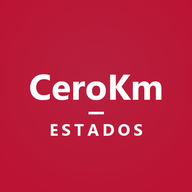
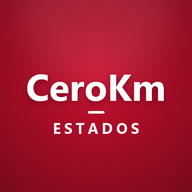
Estado: icono CeroKm con degradado (version 5)

diff --git a/estado/index.html b/estado/index.html
@@ -4,9 +4,9 @@
 <meta charset="utf-8">
 <meta name="viewport" content="width=device-width, initial-scale=1, maximum-scale=1, viewport-fit=cover">
 <title>CeroKm Estados</title>
-<link rel="apple-touch-icon" href="icono-180.png?v=5">
-<link rel="icon" type="image/png" href="favicon.png?v=5">
-<link rel="manifest" href="manifest.webmanifest?v=5">
+<link rel="apple-touch-icon" href="icono-180.png?v=6">
+<link rel="icon" type="image/png" href="favicon.png?v=6">
+<link rel="manifest" href="manifest.webmanifest?v=6">
 <meta name="apple-mobile-web-app-capable" content="yes">
 <meta name="mobile-web-app-capable" content="yes">
 <meta name="apple-mobile-web-app-title" content="CeroKm Estados">
@@ -42,7 +42,7 @@
 <script>
 /* Link para compartir (solo ver). Muestra la pantalla de la app sin pasar por la página de Google,
    así no aparece el cartel "Un usuario de Google Apps Script creó esta aplicación". */
-var WRAP_VER = '4';
+var WRAP_VER = '5';
 var API = 'https://script.google.com/macros/s/AKfycbwMccMP6rNIBN-iutoZVSfVqYasFBMve_L3eUG1JDRx5FhUtV1idSD72ImTmHms3ooa2w/exec';
 var LG = Storage.prototype.getItem, LS = Storage.prototype.setItem;   // originales (la pantalla después usa memoria aparte)
 function leer(k) { try { return LG.call(localStorage, k); } catch (e) { return null; } }
@@ -123,7 +123,7 @@ function puente() {
 
   // Ícono nuevo: el teléfono no deja cambiarlo desde la página, así que se explica cómo volver a agregarlo (una vez por aparato)
   (function () {
-    var ICONO = '5', NOMBRE = 'CeroKm Estados', CODIGO = false;
+    var ICONO = '6', NOMBRE = 'CeroKm Estados', CODIGO = false;
     function ls(k, v) { try { if (v === undefined) return localStorage.getItem(k); localStorage.setItem(k, v); } catch (e) { return null; } }
     var ua = navigator.userAgent, ios = /iPhone|iPad|iPod/i.test(ua) || (/Macintosh/.test(ua) && navigator.maxTouchPoints > 1), andr = /Android/i.test(ua);
     var inst = (window.matchMedia && matchMedia('(display-mode: standalone)').matches) || navigator.standalone === true;
@@ -182,8 +182,8 @@ function huellaTop(x) { var h = 5381; for (var i = 0; i < x.length; i++) h = ((h
 function mostrar(html) {
   if (document.readyState === 'loading') { document.addEventListener('DOMContentLoaded', function () { mostrar(html); }); return; }
   var extra = '<meta name="viewport" content="width=device-width, initial-scale=1, maximum-scale=1, viewport-fit=cover">' +
-    '<meta name="theme-color" content="#0e1014"><link rel="manifest" href="manifest.webmanifest?v=5">' +
-    '<link rel="apple-touch-icon" href="icono-180.png?v=5"><link rel="icon" type="image/png" href="favicon.png?v=5">' +
+    '<meta name="theme-color" content="#0e1014"><link rel="manifest" href="manifest.webmanifest?v=6">' +
+    '<link rel="apple-touch-icon" href="icono-180.png?v=6"><link rel="icon" type="image/png" href="favicon.png?v=6">' +
     '<title>CeroKm Estados</title><script>window.__API=' + JSON.stringify(API) + ';window.__VER=' + JSON.stringify(huellaTop(html)) + ';window.__WRAP=' + JSON.stringify(WRAP_VER) + ';(' + puente.toString() + ')();<\/script>';
   html = html.replace(/<base[^>]*>/i, '').replace(/<head>/i, '<head>' + extra);
   document.open(); document.write(html); document.close();
@@ -194,7 +194,7 @@ var guardada = leer('estadoHtml');
 if (guardada) {
   mostrar(guardada);
 } else {
-  pedir('_html').then(function (h) { guardar('estadoHtml', h); guardar('est_iconoVisto', '5'); mostrar(h); }, function () {
+  pedir('_html').then(function (h) { guardar('estadoHtml', h); guardar('est_iconoVisto', '6'); mostrar(h); }, function () {
     document.getElementById('cargando').style.display = 'none'; document.getElementById('error').style.display = 'block';
   });
 }
